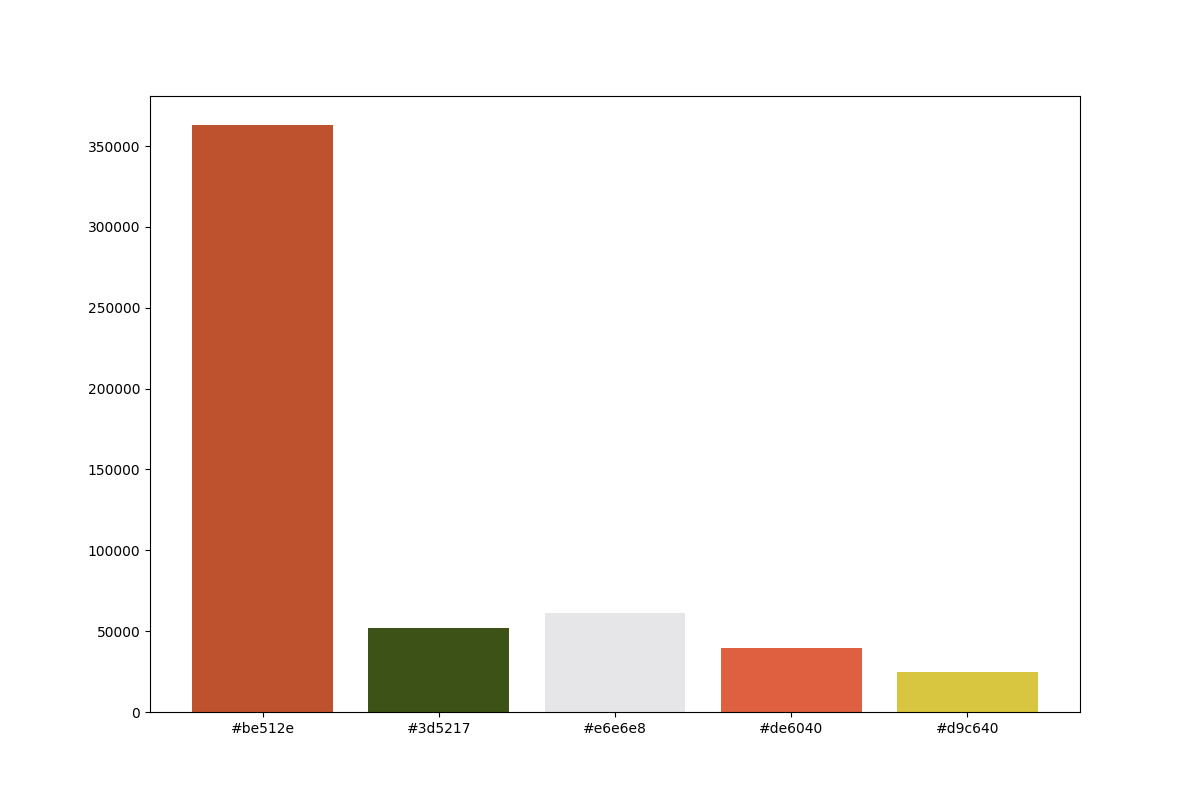
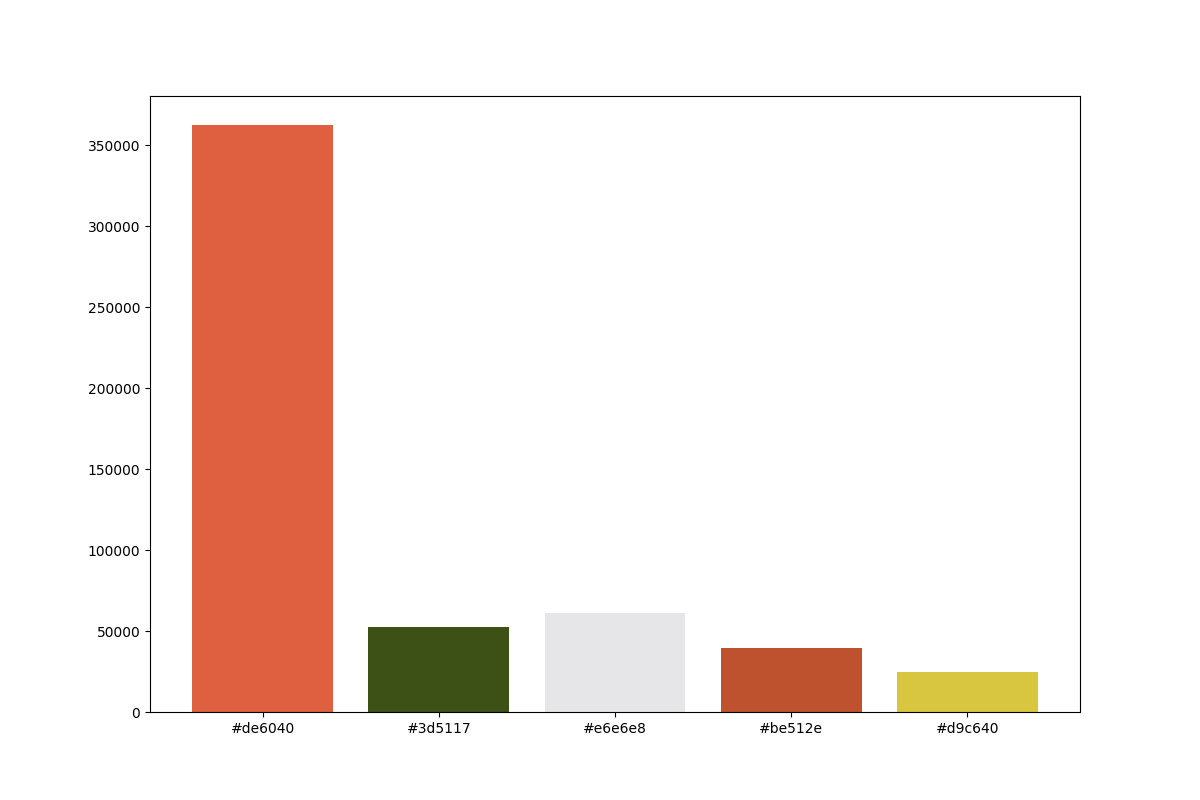
Add files via upload
función que compara el color del histograma de la imagen prueba con los colores frecuentes de las categorías y cuenta coincidencias (ahorita la comparación es buscar exactamente la tonalidad (debe de extraerse la cadena y ver que vea que pertenezca a la gama y no al tono tal cual) con una tolerancia de 3 o 2 números debe de ser suficiente para encontrar coincidencias, luego se mide la probabilidad (en otra próxima función)

Changed region(s): [[0.1542, 0.1562, 0.2775, 0.9375], [0.5858, 0.8125, 0.74, 0.9375], [0.0617, 0.1562, 0.1233, 0.1875]]

diff --git a/P2/codigo.py b/P2/codigo.py
@@ -1,5 +1,5 @@
 import matplotlib.pyplot as plt
-from PIL import Image, ImageFilter 
+from PIL import Image, ImageFilter ,ImageColor
 from sklearn.cluster import KMeans
 from collections import Counter
 import os
@@ -11,6 +11,8 @@ def rgb_to_hex(rgb_color):
         i = int(i)
         hex_color += ("{:02x}".format(i))
     return hex_color
+
+
 
 def prep_image(raw_img):
     modified_img = cv2.resize(raw_img, (900, 600), interpolation = cv2.INTER_AREA)
@@ -27,9 +29,25 @@ def color_analysis(img,carpeta,num):
     plt.figure(figsize = (12, 8))
     plt.bar(hex_colors,counts.values(), color = hex_colors, label= 'colores')
     plt.savefig(os.getcwd()+'\I_'+carpeta+"\Histograma\Histograma_imagen"+str(num)+".png")
-    plt.show()
+    #plt.show()
     print("Colores: ")
     print(hex_colors)
+    return hex_colors
+
+def color_analysis_p(img,dir):
+    clf = KMeans(n_clusters = 5)
+    color_labels = clf.fit_predict(img)
+    center_colors = clf.cluster_centers_
+    counts = Counter(color_labels)
+    ordered_colors = [center_colors[i] for i in counts.keys()]
+    hex_colors = [rgb_to_hex(ordered_colors[i]) for i in counts.keys()]
+    plt.figure(figsize = (12, 8))
+    plt.bar(hex_colors,counts.values(), color = hex_colors, label= 'colores')
+    plt.savefig(dir+".png")
+    #plt.show()
+    print("Colores: ")
+    print(hex_colors)
+  
 
 def entrenamiento():
 	n=[1,2]
@@ -41,15 +59,14 @@ def entrenamiento():
 			print("Hubo un error en el archivo cuya ruta es: "+os.getcwd()+"\I_aerea\Entrenamiento"+str(i)+".png")
 			return
 		image = image.filter(ImageFilter.GaussianBlur)   
-		image.show()
+		#image.show()
 		rgb_im = image.convert('RGB')
 		rgb_im.save(os.getcwd()+"\I_aerea\Filtradas\Imagen_filtro_gaussiano"+str(i)+".jpg" ,"JPEG")
 
 		imagecv2 = cv2.imread(os.getcwd()+"\I_aerea\Filtradas\Imagen_filtro_gaussiano"+str(i)+".jpg")
 		imagecv2 = cv2.cvtColor(imagecv2 , cv2.COLOR_BGR2RGB)
 		modified_image = prep_image(imagecv2)
-		color_analysis(modified_image,"aerea",i)
-		aerea_colores.append(hex_colors)
+		aerea_colores.append(color_analysis(modified_image,"aerea",i))
 		
 
 
@@ -62,15 +79,14 @@ def entrenamiento():
 			print("Hubo un error en el archivo cuya ruta es: "+os.getcwd()+"\I_comida\Entrenamiento"+str(i)+".jpg")
 			return
 		image = image.filter(ImageFilter.GaussianBlur)   
-		image.show()
+		#image.show()
 		rgb_im = image.convert('RGB')
 		rgb_im.save(os.getcwd()+"\I_comida\Filtradas\Imagen_filtro_gaussiano"+str(i)+".jpg" ,"JPEG")
 
 		imagecv2 = cv2.imread(os.getcwd()+"\I_comida\Filtradas\Imagen_filtro_gaussiano"+str(i)+".jpg")
 		imagecv2 = cv2.cvtColor(imagecv2 , cv2.COLOR_BGR2RGB)
 		modified_image = prep_image(imagecv2)
-		color_analysis(modified_image,"comida",i)
-		comida_colores.append(hex_colors)
+		comida_colores.append(color_analysis(modified_image,"comida",i))
 		
 
 	n=[1,2,3,4,5,6]
@@ -82,29 +98,71 @@ def entrenamiento():
 			print("Hubo un error en el archivo cuya ruta es: "+os.getcwd()+"\I_monos\Entrenamiento"+str(i)+".jpg")
 			return
 		image = image.filter(ImageFilter.GaussianBlur)   
-		image.show()
+		#image.show()
 		rgb_im = image.convert('RGB')
 		rgb_im.save(os.getcwd()+"\I_monos\Filtradas\Imagen_filtro_gaussiano"+str(i)+".jpg" ,"JPEG")
 
 		imagecv2 = cv2.imread(os.getcwd()+"\I_monos\Filtradas\Imagen_filtro_gaussiano"+str(i)+".jpg")
 		imagecv2 = cv2.cvtColor(imagecv2 , cv2.COLOR_BGR2RGB)
 		modified_image = prep_image(imagecv2)
-		color_analysis(modified_image,"monos",i)
-		mono_colores.append(hex_colors)
+		mono_colores.append(color_analysis(modified_image,"monos",i))
 
 
 def Prueba():
 	#Aquí se va a ir comparando con los colores frecuentes que se extrajeron de las imagenes de conocimiento
 	#Carpeta para guardar las imagenes con los colores comunes de los arreglos
+	coincidencias_mono=0
+	coincidencias_aerea=0
+	coincidencias_comida=0
 	print("Ponga la dirección de la imagen prueba con su extensión (ya está siendo considerada la dirección actual):")
 	dir=input()
 	try:
-		image = Image.open(os.getcwd()+dir) 
+		image = Image.open(os.getcwd()+"\I_"+dir) 
 	except:
 		print("Hubo un error en el archivo cuya ruta es: "+os.getcwd()+dir)
 		return
-	image.show()
+	image = image.filter(ImageFilter.GaussianBlur)   
+	rgb_im = image.convert('RGB')
+	rgb_im.save(os.getcwd()+"\Prueba_colores\Imagen_Filtrada.jpg" ,"JPEG")
 
+	img = cv2.imread(os.getcwd()+"\Prueba_colores\Imagen_Filtrada.jpg")
+	cv2.imshow('Imagen',img)
+	cv2.waitKey(800)
+	imagecv2 = cv2.cvtColor(img , cv2.COLOR_BGR2RGB)
+	modified_image = prep_image(imagecv2)
+	color_analysis_p(modified_image,os.getcwd()+"\Prueba_colores\Histograma.jpg")
+	prueba.append(hex_colors)
+
+	print("Buscando coincidencias con categoría mono:")
+	for i in range(len(mono_colores)):
+		for w in range(len(mono_colores[i])):
+			print('Color a comparar: '+mono_colores[i][w])
+			for n in range(len(prueba)):
+				if(mono_colores[i][w]==prueba[n]):
+					coincidencias_mono=coincidencias_mono+1
+
+	print("Buscando coincidencias con categoría comida:")
+	for i in range(len(comida_colores)):
+		for w in range(len(comida_colores[i])):
+			print('Color a comparar: '+comida_colores[i][w])
+			for n in range(len(prueba)):
+				if(comida_colores[i][w]==prueba[n]):
+					coincidencias_comida=coincidencias_comida+1
+
+
+	print("Buscando coincidencias con categoría aerea:")
+	for i in range(len(aerea_colores)):
+		for w in range(len(aerea_colores[i])):
+			print('Color a comparar: '+aerea_colores[i][w])
+			for n in range(len(prueba)):
+				if(aerea_colores[i][w]==prueba[n]):
+					coincidencias_aerea=coincidencias_aerea+1
+
+	
+	
+	print("coincidencias con categoría mono: "+str(coincidencias_mono))
+	print("coincidencias con categoría aerea: "+str(coincidencias_aerea))
+	print("coincidencias con categoría comida: "+str(coincidencias_comida))
 
 def main():
 	entrenamiento()
@@ -115,4 +173,5 @@ hex_colors =[]
 mono_colores=[]
 comida_colores=[]
 aerea_colores=[]
+prueba=[]
 main()
